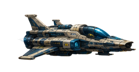
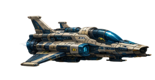
Add files via upload

diff --git a/sw.js b/sw.js
@@ -1,4 +1,4 @@
-const CACHE_NAME='math-universe-build13-distance-visual-shipicon-v1';
+const CACHE_NAME='math-universe-build13-distance-no-duplicate-planet-v1';
 const ASSETS=['./','./index.html','./manifest.json','./icon.svg'];
 self.addEventListener('install',e=>{
   e.waitUntil(caches.open(CACHE_NAME).then(c=>c.addAll(ASSETS)));

diff --git a/README.md b/README.md
@@ -1,12 +1,12 @@
-# Math Universe Build 13 Distance Visual Ship Icon
+# Math Universe Build 13 Distance No Duplicate Planet
 
-ฐาน: Build 13 Distance Visual
+แก้จาก Build 13 Distance Visual Ship Icon
 
-ปรับเฉพาะ:
-- ใช้ดาวเป้าหมายมุมบนขวาเดิม
-- เปลี่ยนไอคอนยานจาก Emoji เป็นภาพยานที่ผู้ใช้แนบ
-- ไฟล์: assets/mini_ship_hud_icon.png
-- ยานค่อย ๆ ขยับเข้าใกล้ดาวตามค่า Distance เดิม
+แก้เฉพาะ:
+- ลบดาวซ้ำใน Distance Visual
+- ใช้ดาวมุมบนขวาเดิม (#planetMini)
+- ใช้ภาพยานจริง assets/mini_ship_hud_icon.png แทน Emoji
+- เส้นทางและยานวิ่งไปหาดาวเดิม ไม่ซ้อนดาวใหม่
 
 ยังคง:
 - Report Table Scroll Fix